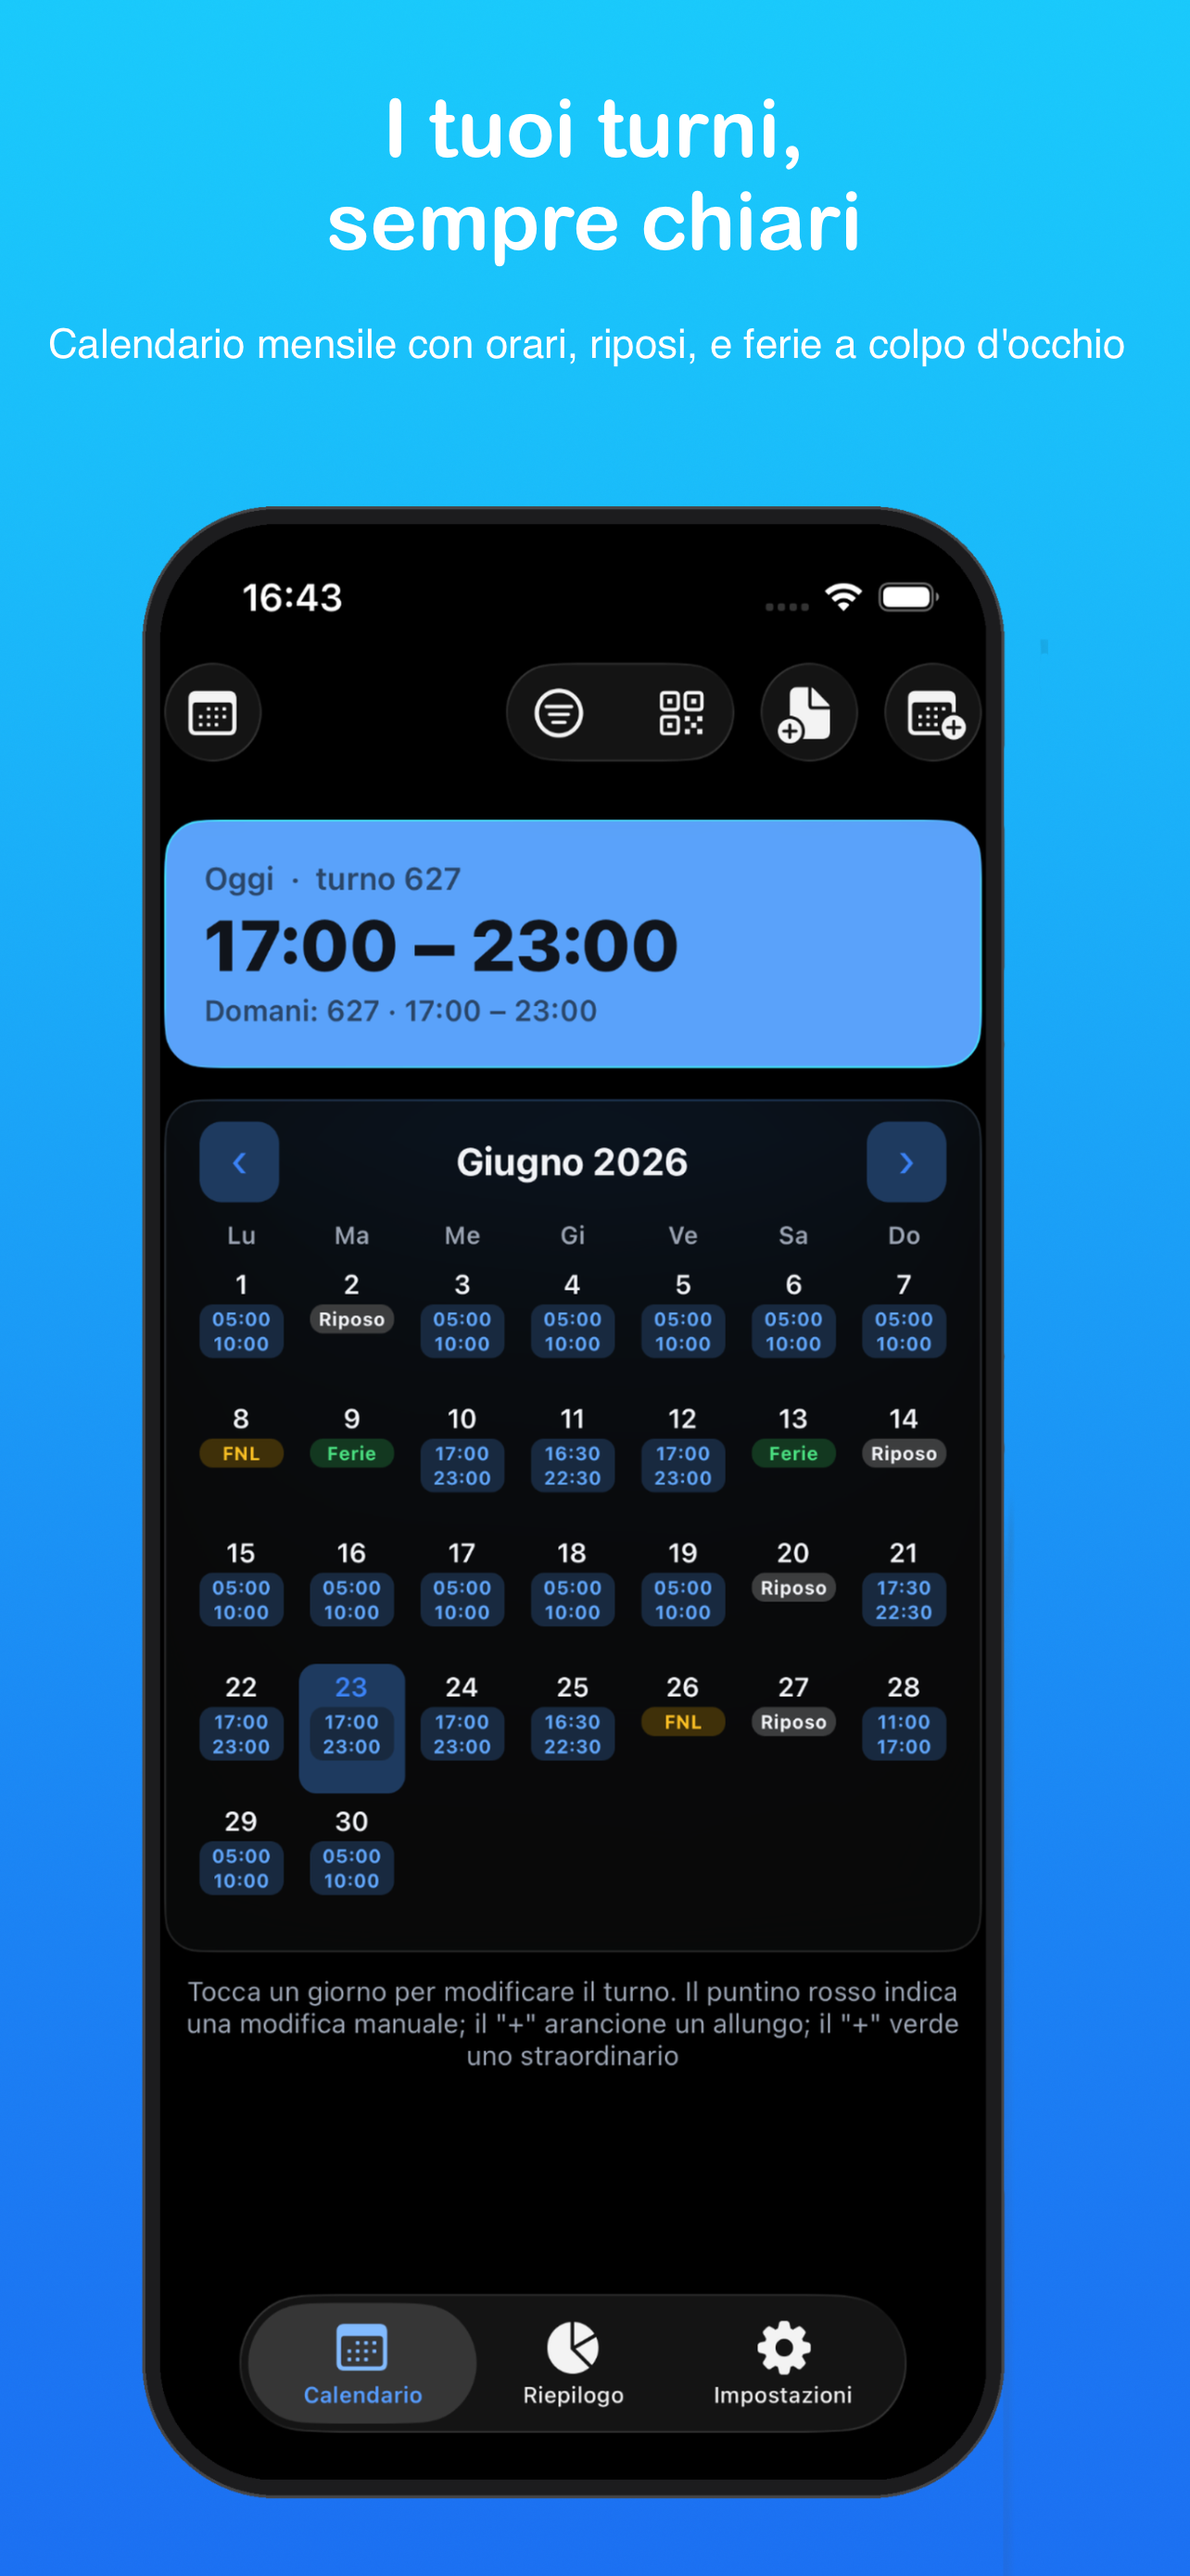
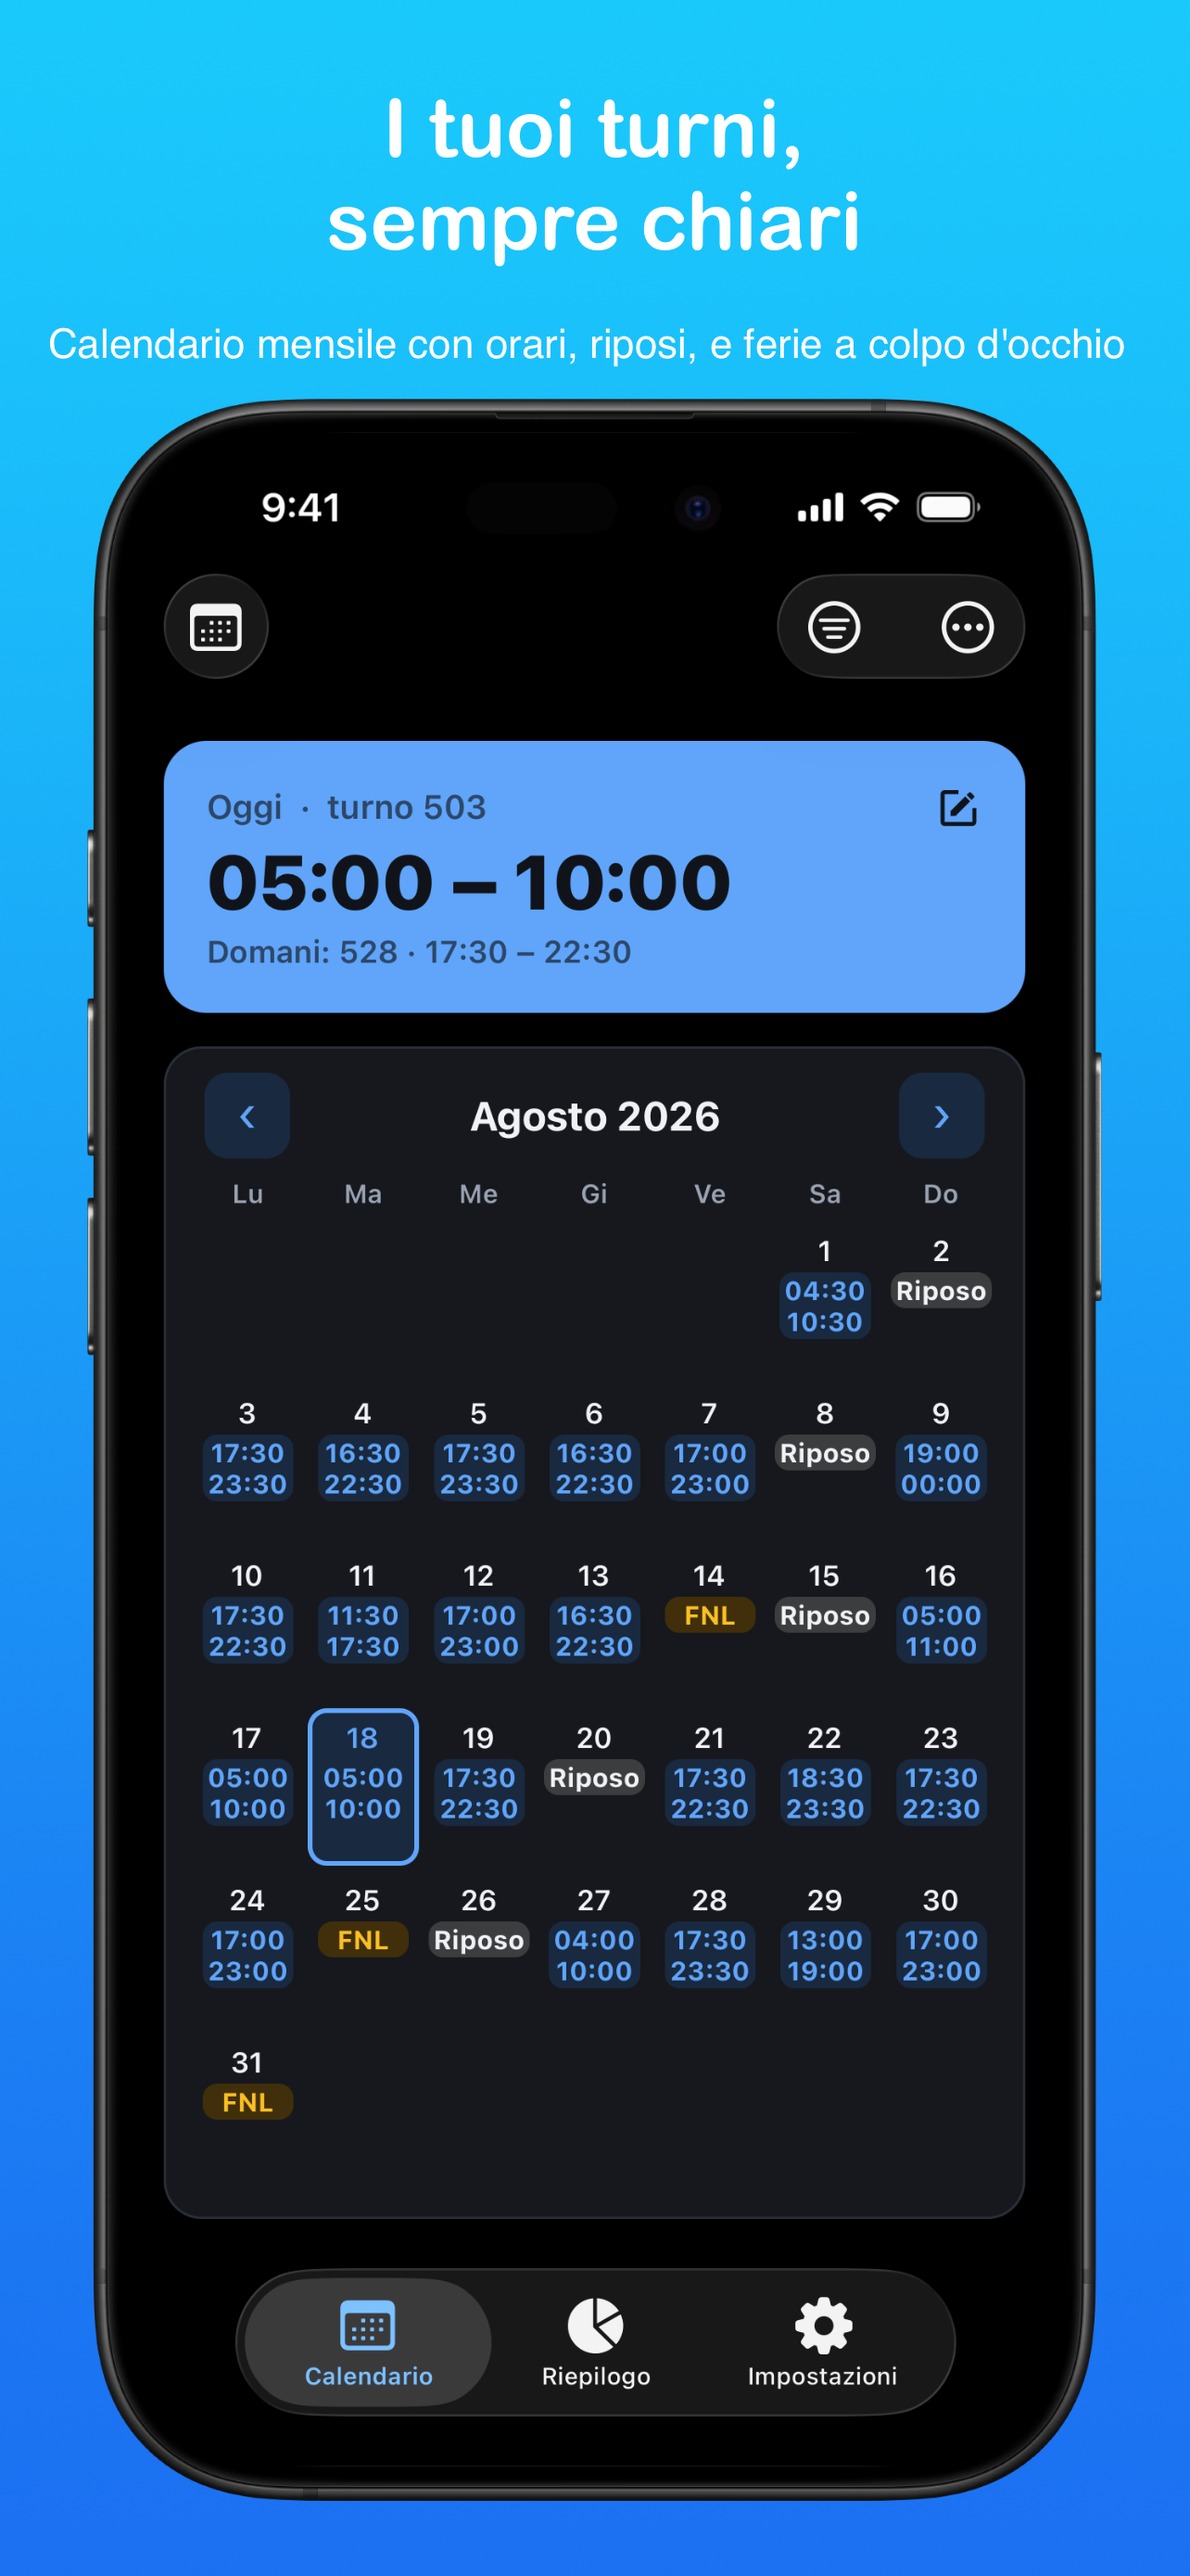
feat: aggiorna mockup Calendario/Riepilogo e aggiunge sezione Colori
Sostituisce gli screenshot di Calendario e Riepilogo con le versioni
aggiornate (Agosto 2026, card con icona modifica, statistiche
diurne/notturne). Aggiunge una nuova sezione "Imposta i tuoi colori
preferiti per ogni turno" per la personalizzazione colori (turni
propri e turni condivisi dai colleghi), tra Riepilogo e Impostazioni.
Aggiornato anche l'accent color di "Codici" per evitare la
duplicazione col nuovo teal di Colori.

diff --git a/src/site/FeaturesPage.tsx b/src/site/FeaturesPage.tsx
@@ -17,6 +17,7 @@ function AndroidIcon() {
 }
 import MockupCalendario from '../AmmAppMockups/screen-calendario.png'
 import MockupRiepilogo from '../AmmAppMockups/screen-riepilogo.png'
+import MockupColori from '../AmmAppMockups/screen-colori.png'
 import MockupImpostazioni from '../AmmAppMockups/screen-impostazioni.png'
 import MockupCodici from '../AmmAppMockups/screen-codici.png'
 import MockupCondividi from '../AmmAppMockups/screen-condividi.png'
@@ -48,12 +49,22 @@ const AIRPORTSHIFT_FEATURES: Feature[] = [
   {
     image: MockupRiepilogo,
     alt: { it: 'Schermata riepilogo ore', en: 'Hours summary screen' },
-    title: { it: 'Le tue ore a colpo d\'occhio', en: 'Your hours at a glance' },
+    title: { it: 'Scomponi i turni', en: 'Break down your shifts' },
     desc: {
-      it: 'Ore lavorate, giorni di lavoro, riposi, ferie e FNL del mese in un unico pannello. Il grafico a ciambella mostra la distribuzione dei turni per fascia oraria: mattine, pomeriggi, sere e notti.',
-      en: 'Hours worked, work days, rest, vacation, and FNL for the month in one panel. The donut chart shows shift distribution by time slot: mornings, afternoons, evenings, and nights.',
+      it: 'Per avere un quadro più analitico puoi controllare il riepilogo per le statistiche: ore diurne e notturne, giorni di lavoro, riposi, FNL e la distribuzione dei turni per fascia oraria in un grafico a ciambella.',
+      en: 'For a more detailed picture, check the summary for the statistics: daytime and nighttime hours, work days, rest days, FNL, and the shift distribution by time slot in a donut chart.',
     },
     accent: '#f97316',
+  },
+  {
+    image: MockupColori,
+    alt: { it: 'Schermata personalizzazione colori', en: 'Color customization screen' },
+    title: { it: 'Imposta i tuoi colori preferiti per ogni turno', en: 'Set your favorite colors for every shift' },
+    desc: {
+      it: 'Personalizza il colore di ogni tipo di giorno e degli orari dei colleghi: turni, riposi, ferie, ADD e FNL, con una palette dedicata e indipendente per i turni condivisi dai colleghi.',
+      en: 'Customize the color of every day type and of your colleagues\' shifts: shifts, rest days, vacation, ADD, and FNL, with a dedicated palette for shifts shared by colleagues.',
+    },
+    accent: '#14b8a6',
   },
   {
     image: MockupImpostazioni,
@@ -73,7 +84,7 @@ const AIRPORTSHIFT_FEATURES: Feature[] = [
       it: 'Digita un codice (es. 509, 824, RIP…) e scopri subito orario e durata. La prima cifra è la durata in ore, le ultime due indicano lo slot di inizio (slot 01 = 04:00, ogni slot +30 minuti). I codici speciali FNL, RIP, ADD e FR sono riconosciuti automaticamente.',
       en: 'Type a code (e.g. 509, 824, RIP…) and instantly see the time and duration. The first digit is the duration in hours, the last two indicate the start slot (slot 01 = 04:00, each slot +30 min). Special codes FNL, RIP, ADD, and FR are recognized automatically.',
     },
-    accent: '#14b8a6',
+    accent: '#ec4899',
   },
   {
     image: MockupCondividi,
